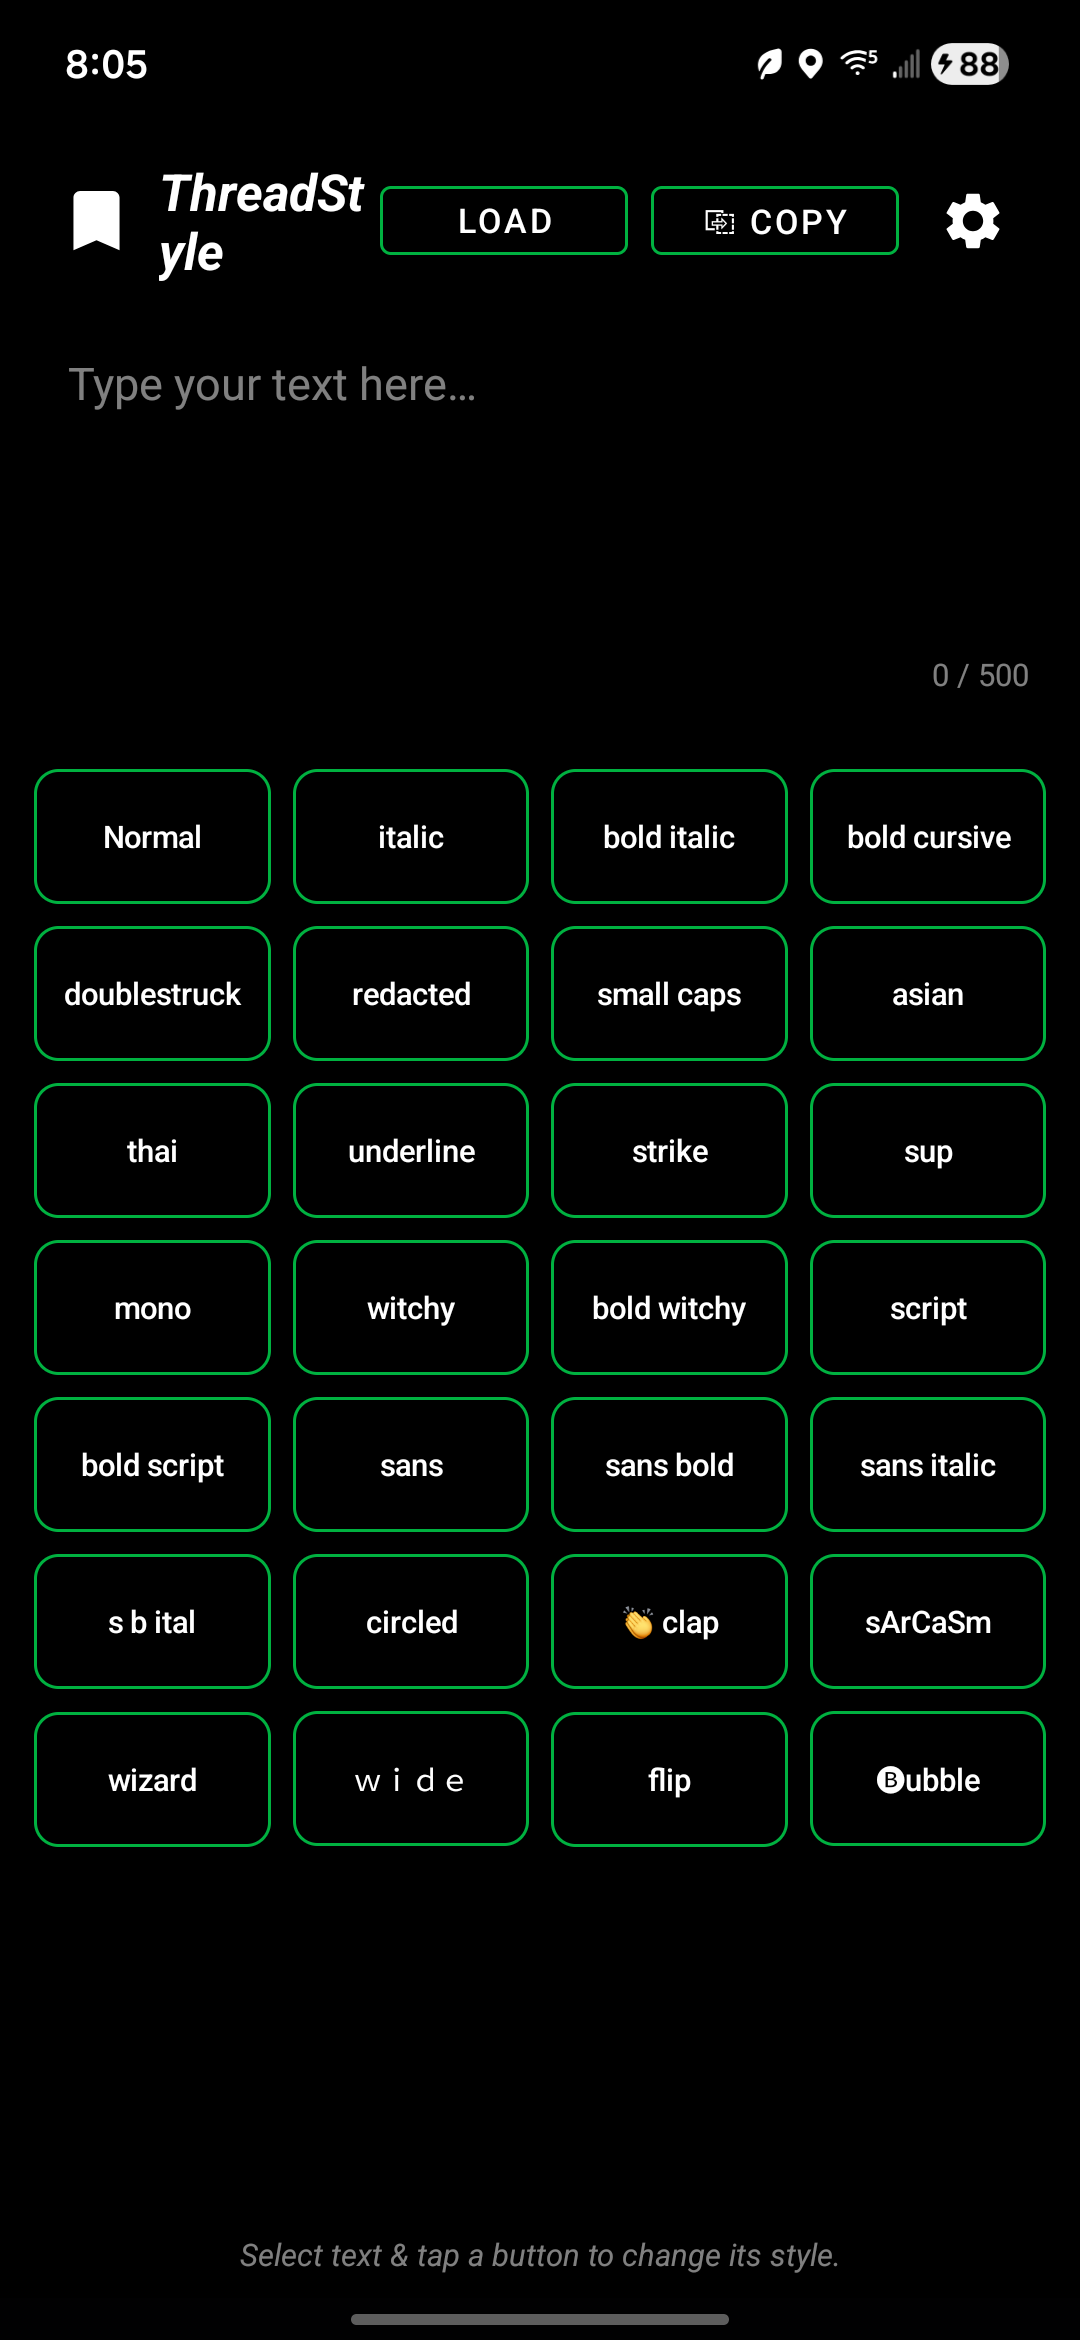
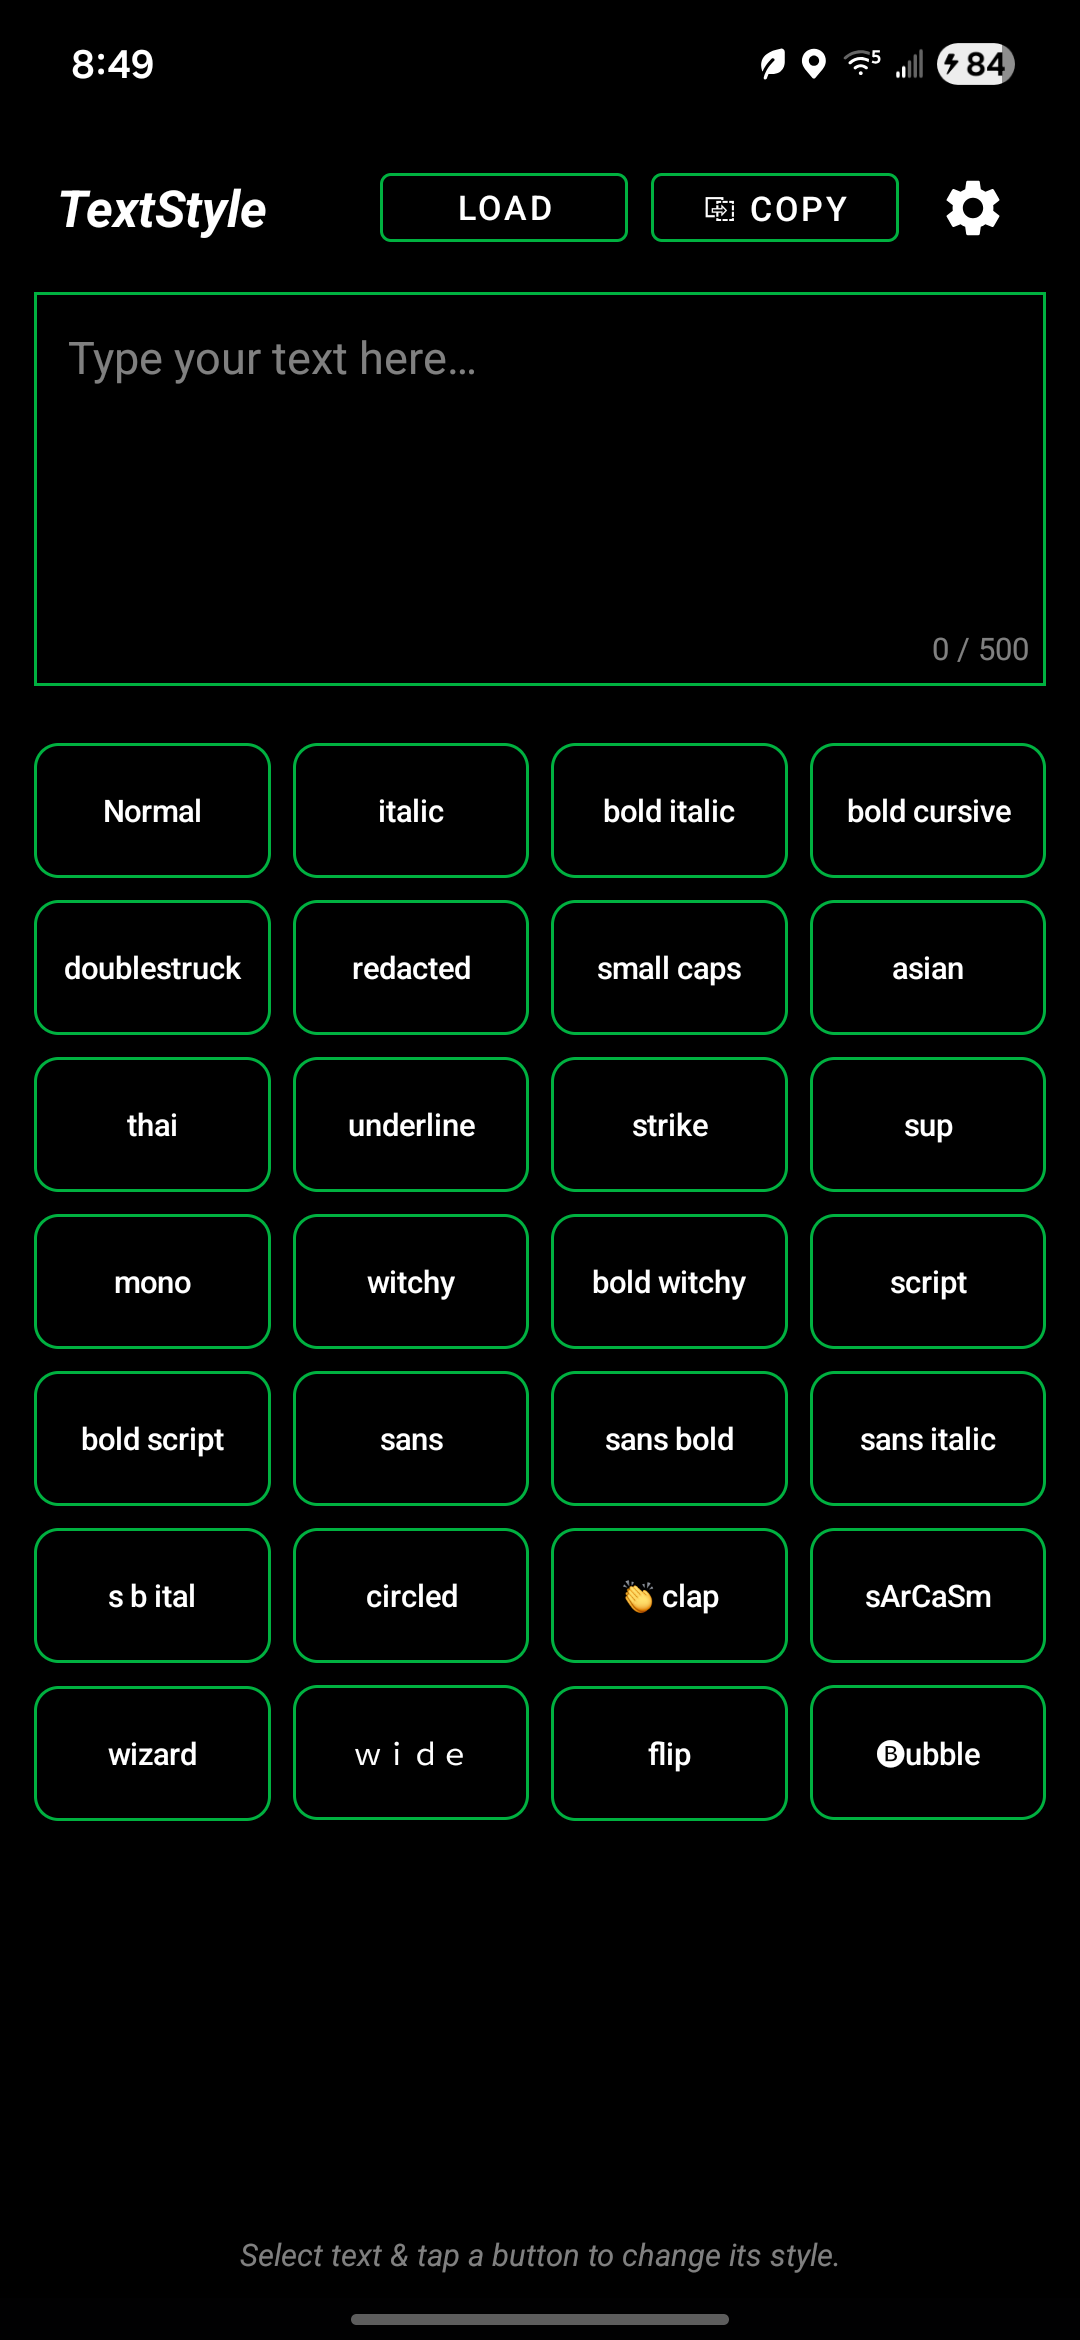
Add long-press delete, input border styling, and updated screenshots
- SettingsActivity: add deleteLogEntry() + long-press listener on copy history items
- activity_main.xml: use input_bg drawable for bordered text input, fix app label to TextStyle
- input_bg.xml: new drawable for green-bordered input field
- screenshots: retake all three screens with copy history fuzzed for privacy

diff --git a/app/src/main/java/com/tekphreak/threadstyle/SettingsActivity.kt b/app/src/main/java/com/tekphreak/threadstyle/SettingsActivity.kt
@@ -41,6 +41,18 @@ class SettingsActivity : AppCompatActivity() {
         return true
     }
 
+    private fun deleteLogEntry(entry: String) {
+        val logFile = java.io.File(filesDir, "log.txt")
+        if (!logFile.exists()) return
+        val remaining = logFile.readText()
+            .split("---\n")
+            .map { it.trim() }
+            .filter { it.isNotEmpty() && it != entry }
+        logFile.writeText(
+            if (remaining.isEmpty()) "" else remaining.joinToString("\n---\n") { it } + "\n---\n"
+        )
+    }
+
     private fun loadLog() {
         val container = binding.logContainer
         container.removeAllViews()
@@ -71,6 +83,11 @@ class SettingsActivity : AppCompatActivity() {
                     val clipboard = getSystemService(Context.CLIPBOARD_SERVICE) as ClipboardManager
                     clipboard.setPrimaryClip(ClipData.newPlainText("ThreadStyle", entry))
                     Toast.makeText(this@SettingsActivity, "Copied", Toast.LENGTH_SHORT).show()
+                }
+                setOnLongClickListener {
+                    deleteLogEntry(entry)
+                    container.removeView(this)
+                    true
                 }
             }
             val params = LinearLayout.LayoutParams(
